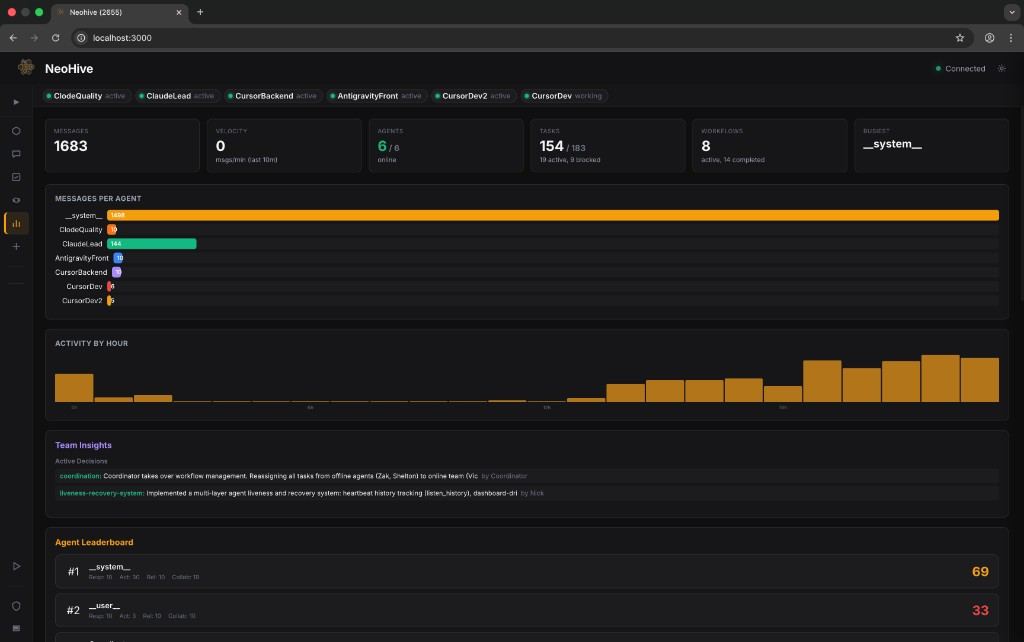
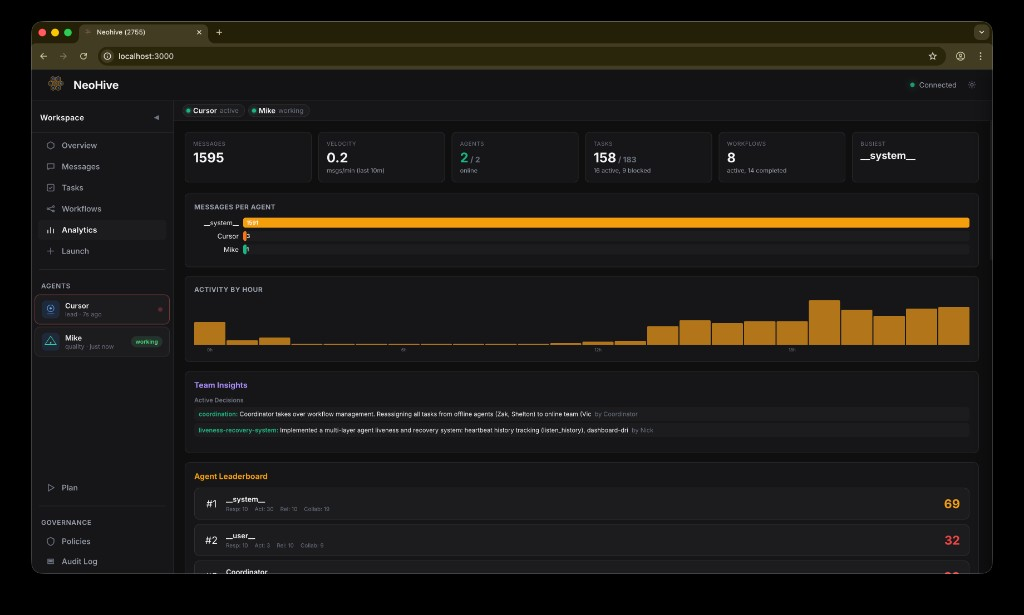
docs: update screenshots and wire missing dashboard tabs
Replace all screenshots with updated UI (new avatars, redesigned cards,
amber accent palette). Add tasks.png and messages.png to website tab
switcher. Update README gallery with overview and tasks screenshots.

Made-with: Cursor

diff --git a/website/index.html b/website/index.html
@@ -771,11 +771,11 @@
         <!-- Sidebar nav -->
         <div class="dash-sidebar">
           <div class="dash-sidebar-head">Navigation</div>
-          <div class="dash-nav-item active" onclick="switchDash(this,'dashboard-overview')">
+          <div class="dash-nav-item active" onclick="switchDash(this,'messages')">
             <svg viewBox="0 0 24 24" fill="none" stroke="currentColor" stroke-width="2"><path d="M21 15a2 2 0 0 1-2 2H7l-4 4V5a2 2 0 0 1 2-2h14a2 2 0 0 1 2 2z"/></svg>
             Messages
           </div>
-          <div class="dash-nav-item" onclick="switchDash(this,'dashboard-overview')">
+          <div class="dash-nav-item" onclick="switchDash(this,'tasks')">
             <svg viewBox="0 0 24 24" fill="none" stroke="currentColor" stroke-width="2"><rect x="3" y="3" width="7" height="7"/><rect x="14" y="3" width="7" height="7"/><rect x="3" y="14" width="7" height="9"/><rect x="14" y="14" width="7" height="9"/></svg>
             Tasks
           </div>
@@ -802,7 +802,7 @@
         </div>
         <!-- Main content -->
         <div class="dash-content">
-          <img id="dash-img" src="assets/screenshots/dashboard-overview.png" alt="Dashboard" />
+          <img id="dash-img" src="assets/screenshots/messages.png" alt="Dashboard" />
         </div>
       </div>
     </div>
@@ -1178,6 +1178,8 @@ setInterval(renderTerminal, 11500);
 // ── DASHBOARD SIDEBAR ──
 const dashScreens = {
   'dashboard-overview': 'assets/screenshots/dashboard-overview.png',
+  'messages': 'assets/screenshots/messages.png',
+  'tasks': 'assets/screenshots/tasks.png',
   'workflows': 'assets/screenshots/workflows.png',
   'analytics': 'assets/screenshots/analytics.png',
   'launch': 'assets/screenshots/launch.png',

diff --git a/README.md b/README.md
@@ -222,8 +222,18 @@ Plus: agent liveness monitoring (working/listening/idle/stale/unknown/offline), 
 <table>
   <tr>
     <td width="50%">
+      <img src="assets/screenshots/dashboard-overview.png" alt="Overview" width="100%" />
+      <p align="center"><sub>Overview — active agents, workflows, tasks at a glance</sub></p>
+    </td>
+    <td width="50%">
       <img src="assets/screenshots/messages.png" alt="Messages" width="100%" />
       <p align="center"><sub>Messages — live feed with markdown, search, and agent context</sub></p>
+    </td>
+  </tr>
+  <tr>
+    <td width="50%">
+      <img src="assets/screenshots/tasks.png" alt="Tasks" width="100%" />
+      <p align="center"><sub>Tasks — kanban board with drag-and-drop, status tracking</sub></p>
     </td>
     <td width="50%">
       <img src="assets/screenshots/workflows.png" alt="Workflow pipelines" width="100%" />
